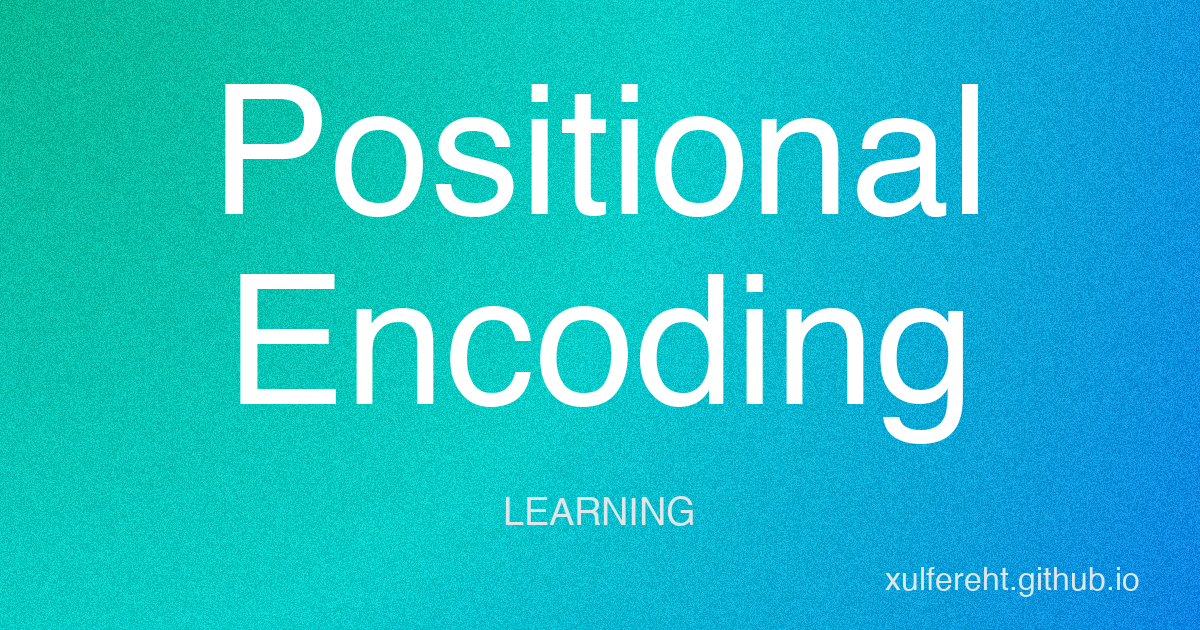
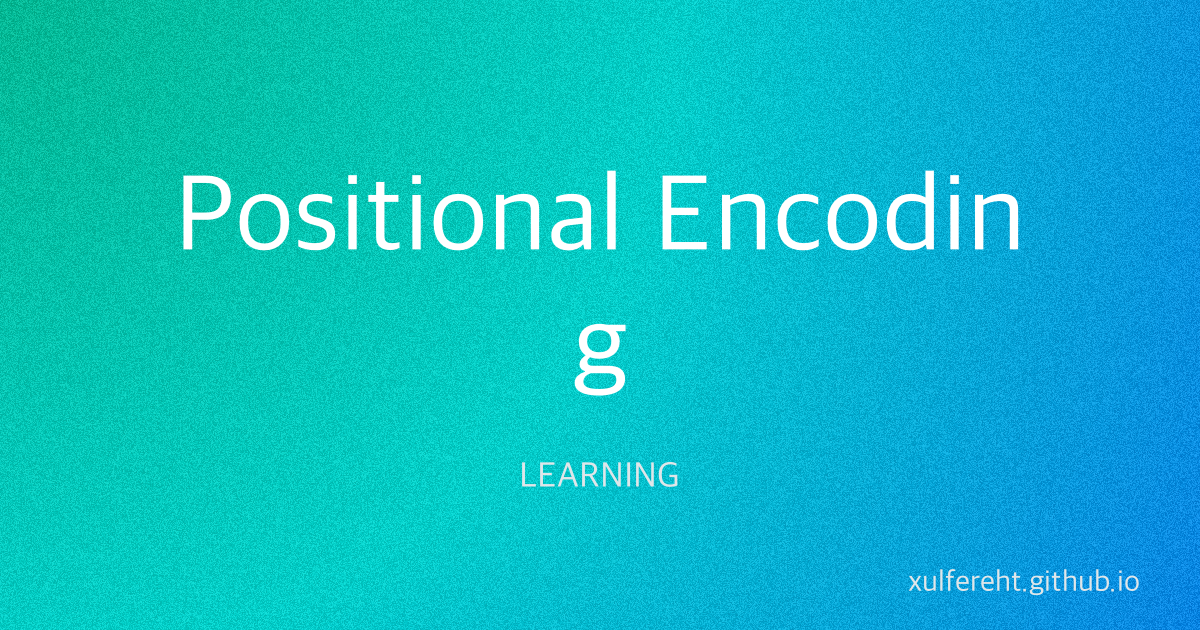
feat: Improve blog design and regenerate all OG images
CHANGES:
1. Footer background color:
   - Before: Bright cyan (#0092ca) - jarring contrast
   - After: Dark subtle (mix of black + background) - professional look

2. Regenerated all 12 OG images with improvements:
   - Adaptive font sizing (65-110pt based on title length)
   - Korean font support (Noto Sans KR)
   - Increased margins (300px vs 200px)
   - Smart text wrapping and 80-char limit

AFFECTED POSTS:
- Perceptron, Neural Network, Positional Encoding, Multi-Head Attention
- 20년 뇌과학 공부, Claude Code 사용법
- Gemini 3 Launch (Situation Brief)
- Planning a Computer System, Book of Why, n8n Starter Kit
- Brief History of Internet, Claude Code Trick

BENEFITS:
- Consistent brand identity (footer matches overall theme)
- Professional OG images for social sharing
- Better readability across all title lengths

🤖 Generated with [Claude Code](https://claude.com/claude-code)

diff --git a/_sass/minimal-mistakes/skins/_air.scss b/_sass/minimal-mistakes/skins/_air.scss
@@ -8,7 +8,7 @@ $text-color: #222831 !default;
 $muted-text-color: #393e46 !default;
 $primary-color: #0092ca !default;
 $border-color: mix(#fff, #393e46, 75%) !default;
-$footer-background-color: $primary-color !default;
+$footer-background-color: mix(#000, $background-color, 85%) !default; // Dark subtle footer
 $link-color: #393e46 !default;
 $masthead-link-color: $text-color !default;
 $masthead-link-color-hover: $text-color !default;
